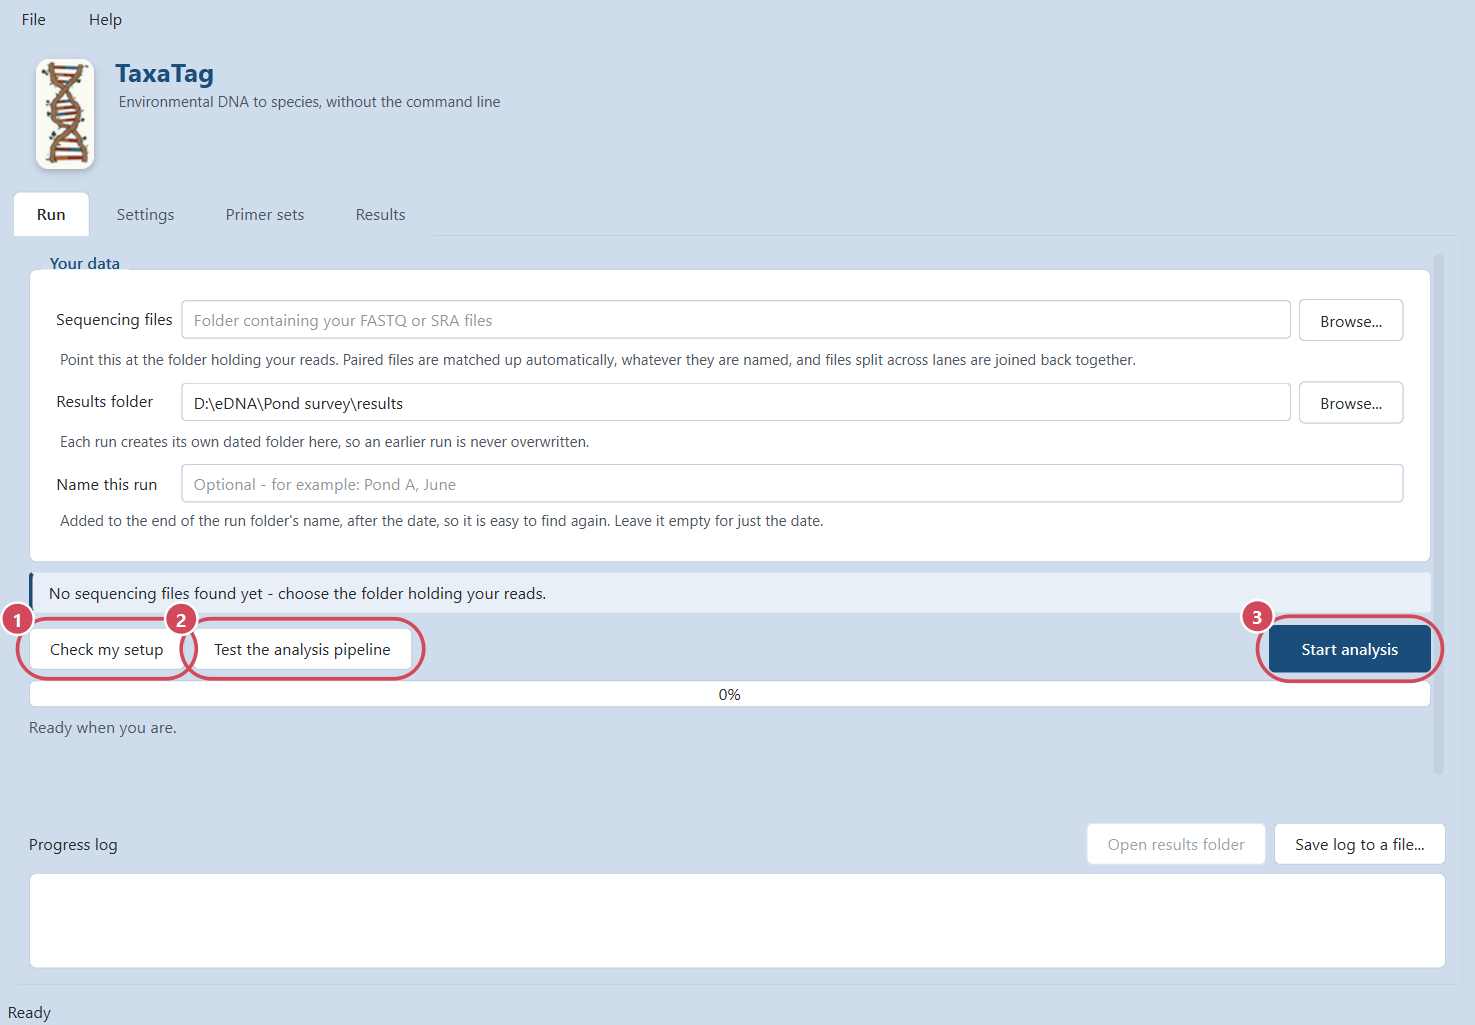
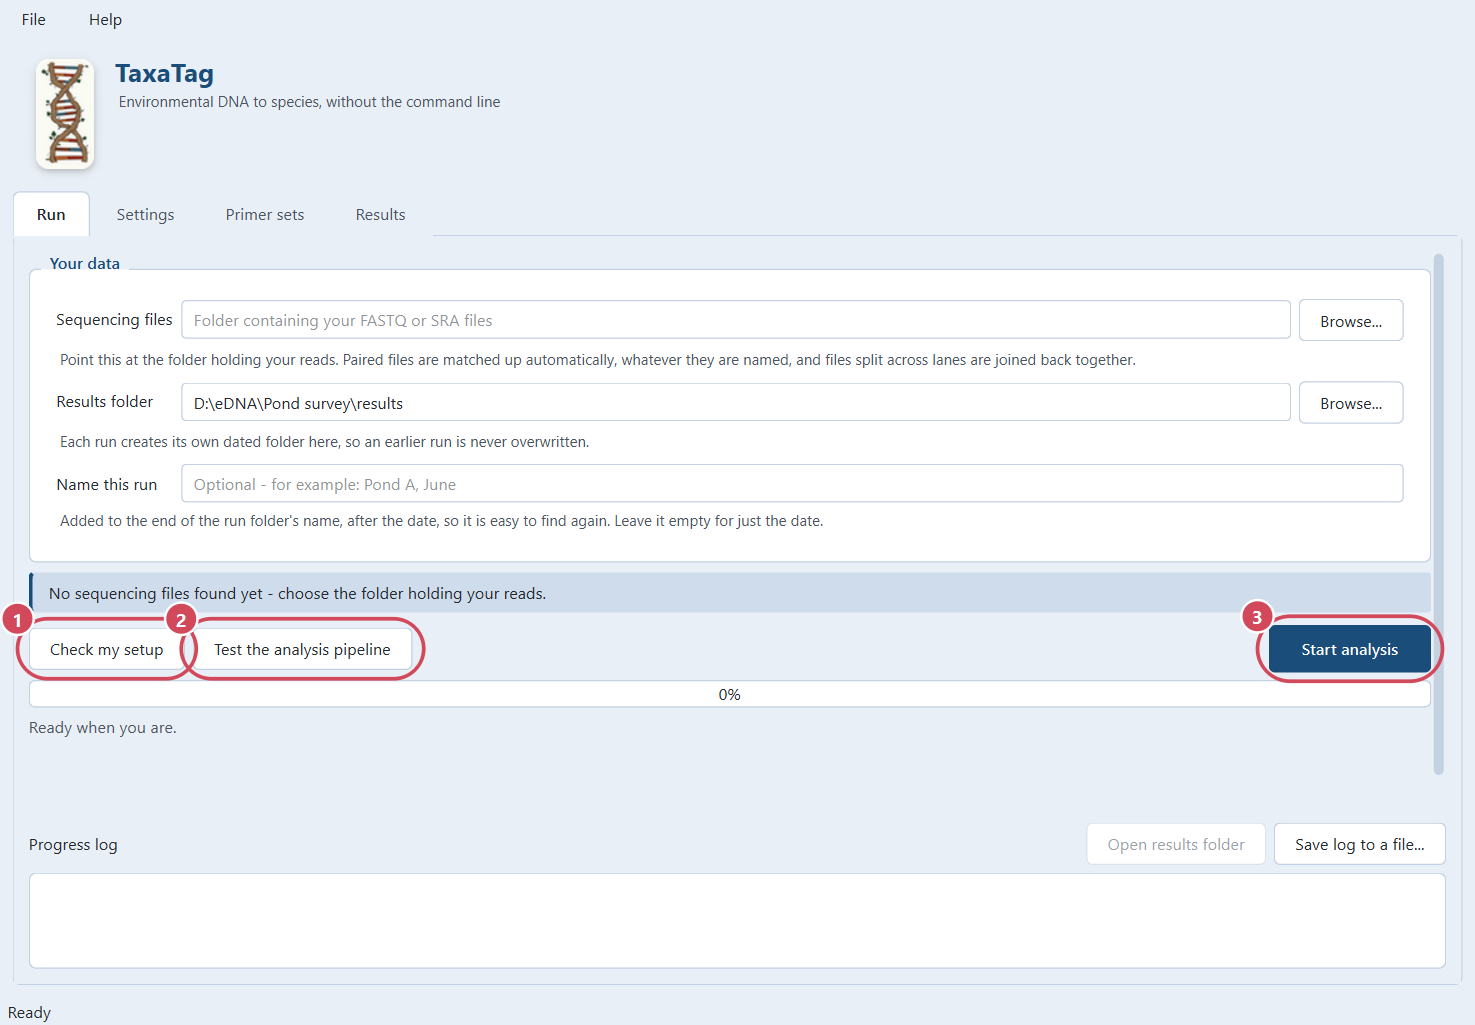
Pale ground in light, the plan box takes the blue

diff --git a/src/gui/theme.py b/src/gui/theme.py
@@ -52,16 +52,19 @@ DYSLEXIC_FILES = ("OpenDyslexic-Regular.otf", "OpenDyslexic-Bold.otf")
 # ends up unreadable on a laptop in daylight.
 #
 # The ground - `background`, the colour behind everything - is TaxaTag's
-# blue, the blue of the base pairs in the emblem: a light steel blue in the
-# light scheme, navy in the dark. The panels, fields, tables and the log
+# blue, the blue of the base pairs in the emblem: a pale blue in the light
+# scheme, so the blue titles on it still pop, navy in the dark. The plan box
+# (`callout`) is one step stronger than the ground in light, since it is a
+# statement and should read as one. The panels, fields, tables and the log
 # stay white or near-black, so the blue frames the work without touching
 # anything that carries meaning (decisions/0025). The secondary surfaces
 # take the same tint so the scheme reads as one thing.
 PALETTES: Dict[str, Dict[str, str]] = {
     LIGHT: {
-        "background": "#cfdcec",
+        "background": "#e9eff6",
         "panel": "#ffffff",
-        "panel_sunken": "#e9eff6",      # disabled fields, the plan box
+        "panel_sunken": "#e9eff6",      # disabled fields, computed values
+        "callout": "#cfdcec",           # the plan box: a step stronger than the ground
         "header": "#e3ebf4",            # table column headings
         "gridline": "#e3eaf2",
         "border": "#c3d1e1",
@@ -92,6 +95,7 @@ PALETTES: Dict[str, Dict[str, str]] = {
         "background": "#0c1a2e",
         "panel": "#16243a",
         "panel_sunken": "#1e2e47",
+        "callout": "#1e2e47",
         "header": "#1e2e47",
         "gridline": "#27395a",
         "border": "#33466a",
@@ -124,6 +128,7 @@ PALETTES: Dict[str, Dict[str, str]] = {
         "background": "#ffffff",
         "panel": "#ffffff",
         "panel_sunken": "#f0f0f0",
+        "callout": "#f0f0f0",
         "header": "#e6e6e6",
         "gridline": "#000000",
         "border": "#000000",
@@ -162,6 +167,7 @@ TEXT_PAIRS = (
     ("text", "background"),
     ("text", "panel"),
     ("text", "panel_sunken"),
+    ("text", "callout"),
     ("text", "header"),
     ("muted", "background"),
     ("muted", "panel"),
@@ -366,7 +372,7 @@ QLabel#statusLabel {{
    committing to a run that may take an hour. */
 QLabel#planLabel {{
     color: {palette['text']};
-    background-color: {palette['panel_sunken']};
+    background-color: {palette['callout']};
     border-left: 3px solid {palette['accent']};
     border-radius: 3px;
     padding: 7px 10px;
